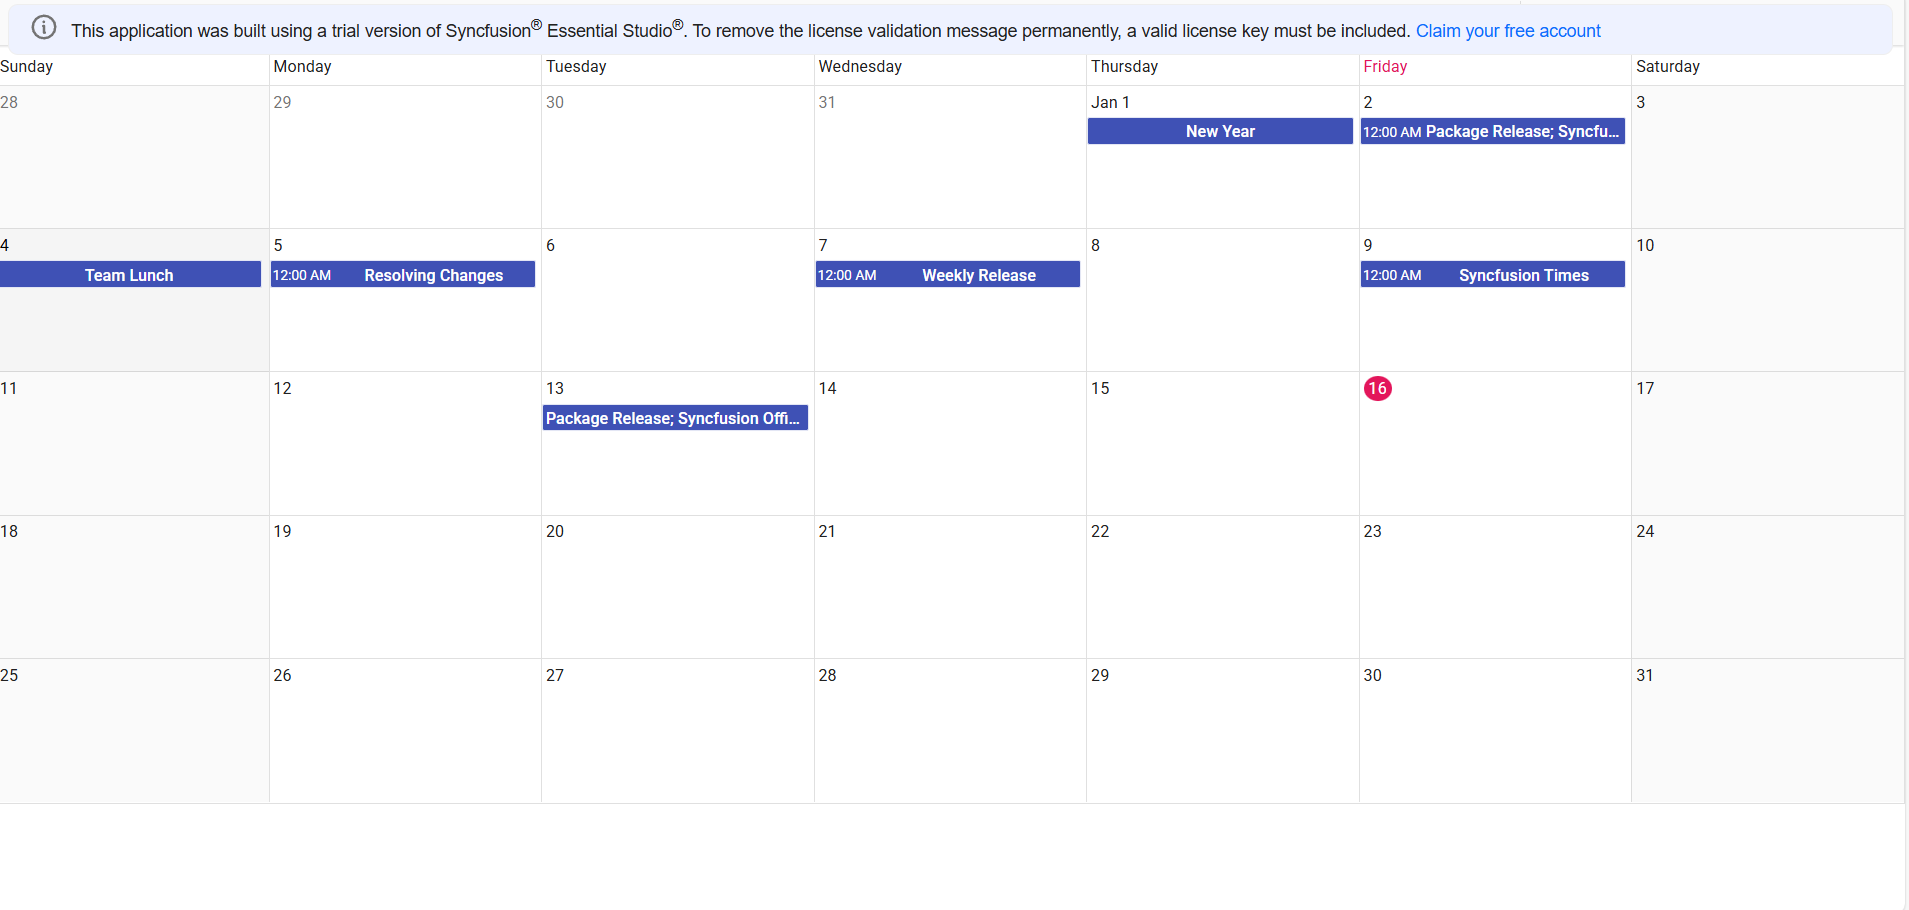
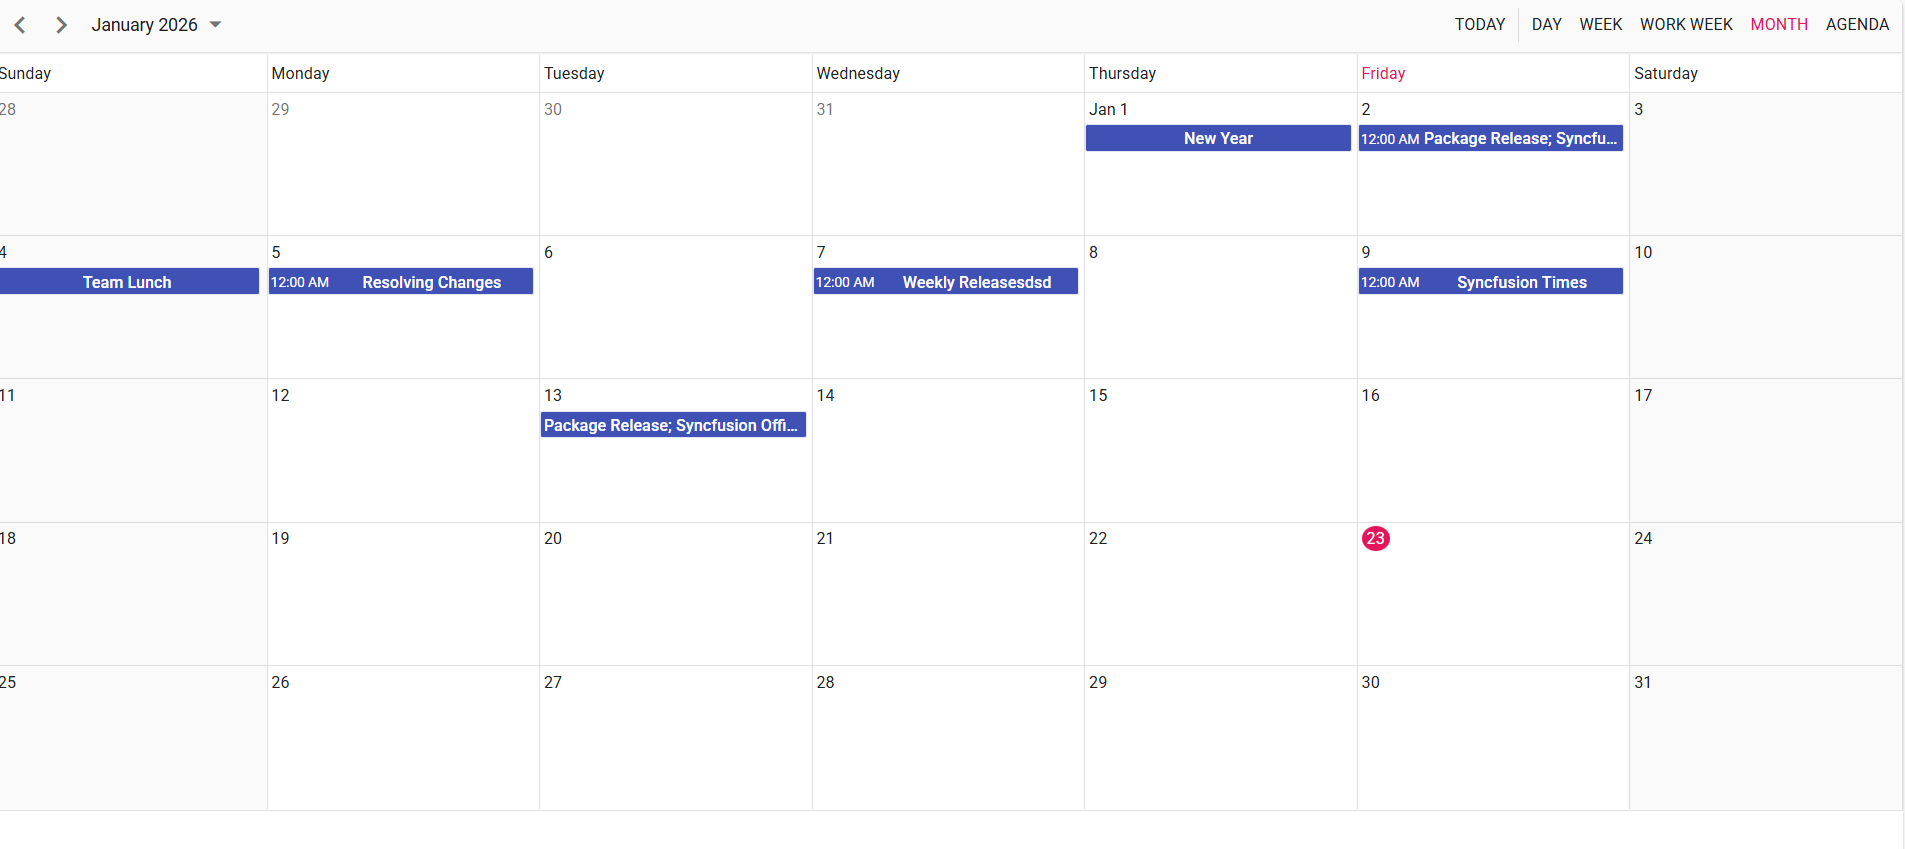
Resolve the Suggested Changes

diff --git a/README.md b/README.md
@@ -13,39 +13,7 @@ This repository contains a sample full-stack application demonstrating how to sy
 - npm (>= 7.0)
 - react (>= 18.0)
 - A PostgreSQL Database with Username and Password (create at https://www.postgresql.org/download/)
-- Basic familiarity with React and PostgreSQL Query
-- Make sure the ports nothing run on 8080 , 8081
 
-## Project Structure
-```
-├── README.md                           # This guide
-├── backend                             # Node.js backend
-│   ├── config    
-│   │    ├── db.config.js               # Database Configuration
-│   ├── controllers
-│   │    ├── scheduler.controller.js     
-│   ├── models
-│   │    ├── index.js     
-│   │    ├── scheduler.model.js     
-│   ├── routes
-│   │    ├── scheduler.routes.js     
-│   ├── package.json
-│   └── server.js                       # Express server
-├── public
-│    ├── index.html
-├── src
-│    ├── App.css       
-│    ├── App.js                         # Scheduler Configuration
-│    ├── App.test.js
-│    ├── index.css
-│    ├── index.js
-│    ├── logo.svg
-│    ├── reportWebVitals.js
-│    ├── setupTests.js    
-├── .env                                #Environment Variables
-│── package.json
-
-```
 ## Setup
 
 ### Cloning the repository
@@ -65,20 +33,15 @@ This repository contains a sample full-stack application demonstrating how to sy
     ```
 
 ### PostgreSql Configuration
-- Create a PostgreSQL user with a chosen username and password and create a new database name as `eventdetails`.
-- In `backend/config/db.config.js` file update the USER, PASSWORD, and DB as per the database configuration.
+- Create a PostgreSQL user with a chosen username ,password and database name.
+- In `backend/config/db.config.js` file update the USER ,  PASSWORD and DB as per the database configuration.
 
     ```ini
     USER=<your-user-name>
     PASSWORD=<password-for-specific-user>
-    ```
-
-### Available Endpoints
-The Express server (`server.js`) exposes the following REST routes:
-| Method | URL                          | Description                         |
-| ------ | ---------------------------- | ----------------------------------- |
-| POST    | `/getData`    | List events in the given time range |
-| POST   | `/crudActions`                | Create a new ,edit and delete event.                  |                    |
+    DB=<your-Database-name>
+    ```               
+  **Note:** The default PostgreSQL username is `postgres` unless you have changed it.
 
 ### Frontend Setup
 
